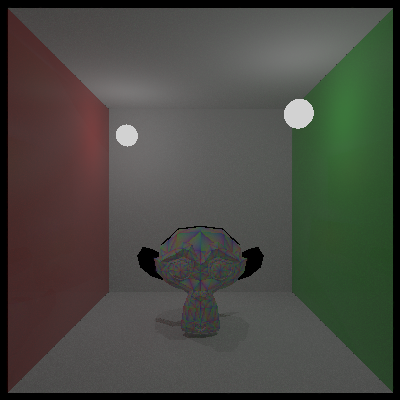
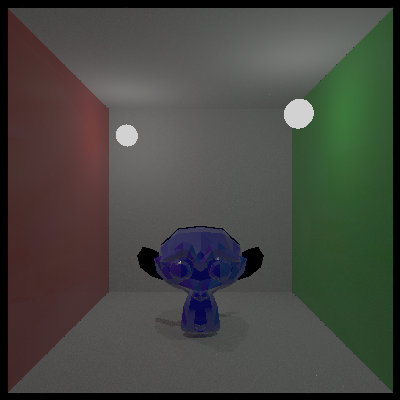
starting to implement transmittance

Changed region(s): [[0.39, 0.57, 0.63, 0.84]]

diff --git a/src/cgg/RayTracer.java b/src/cgg/RayTracer.java
@@ -203,6 +203,7 @@ public class RayTracer implements Sampler
 			__GX = switch (__Recent.material())
 			{
 			case PhysicalMaterial c -> _shadePhysical(__Recent,ray,coord,depth);
+			case TransmittingMaterial c -> _shadeTransmitting(__Recent,ray,coord,depth);
 			case SurfaceMaterial c -> _shadePhong(__Recent);
 			case SurfaceColour c -> _shadeLaemp(__Recent);
 			default -> Config.ERRORCOLOUR;
@@ -360,6 +361,58 @@ public class RayTracer implements Sampler
 		__GI = multiply(__GI,add(multiply(__GIFresnel,__LUT.r()),__LUT.g()));
 		__GI = multiply(add(__GI,__DGI),__Cavity);
 		return mix(out,color(__GI),.5);
+	}
+
+	private Color _shadeTransmitting(Hit hit,Ray ray,Vec2 coord,int depth)
+	{
+		Vec3 p_Normal = hit.normal();
+		double __N0 = 1.;
+		double __N1 = hit.material().getComponent(MaterialComponent.MASS,hit).r();
+
+		// check for exit ray
+		double __CosTheta = dot(p_Normal,ray.direction());
+		if (__CosTheta>0)
+		{
+			// recalculate
+			p_Normal = multiply(p_Normal,-1);
+			__CosTheta = dot(p_Normal,ray.direction());
+			// FIXME is signswap equivalent?
+
+			// swap factors
+			__N0 = __N1;
+			__N1 = 1.;
+		}
+
+		// fresnel approximation
+		double __Schlick = pow((__N0-__N1)/(__N0+__N1),2.);
+		__Schlick = __Schlick+(1-__Schlick)*pow(1+__CosTheta,5.);
+
+		// in case of total reflection
+		double __R = (__N0/__N1);
+		double __DC = 1-pow(__R,2.)*(1-pow(-__CosTheta,2.));
+		if (__DC<0) __Schlick = 1.;
+
+		// calculate refraction
+		Color __Refraction = color(0,0,.5);
+		if (__Schlick<.99)
+		{
+			Vec3 __FacDirection = multiply(ray.direction(),__R);
+			Vec3 __FacDC = multiply(hit.normal(),__R*-__CosTheta-sqrt(__DC));
+			Vec3 __RefDirection = add(__FacDirection,__FacDC);
+			Ray __RefractRay = new Ray(hit.position(),__RefDirection);
+			__Refraction = _processScene(__RefractRay,coord,depth);
+		}
+
+		// calculate reflection
+		Color __Reflection = color(0,0,0);
+		if (__Schlick>.01)
+		{
+			Ray __ReflectRay = new Ray(hit.position(),bounce(ray.direction(),hit.normal()));
+			__Reflection = _processScene(__ReflectRay,coord,depth+1);
+		}
+
+		// combine components
+		return mix(__Refraction,__Reflection,__Schlick);
 	}
 
 	private Vec3 _diffuseComponent(Vec2 coord,int depth,Hit hit,Vec3 fresnel,double metallic)

diff --git a/src/cgg/geom/TriangleMesh.java b/src/cgg/geom/TriangleMesh.java
@@ -38,6 +38,8 @@ public class TriangleMesh implements Geometry
 		}
 		//this.tree = new KDTree(triangles);
 	}
+	// FIXME kdtree should make rendering faster, not slower:
+	//		a debug log has been established in KDTree implementation in case there is time
 
 	public Queue<HitTuple> intersect(Ray charles)
 	{
@@ -59,6 +61,7 @@ public class TriangleMesh implements Geometry
 		if (out.size()>0) out.peek().front().overwriteMaterial(material);
 		return out;
 		*/
+		__Recent.overwriteMaterial(material);
 		return primitive_hit(new HitTuple(__Recent,__Recent));
 	}
 	// TODO improve to actually return all the geometry the charles passes through just like in csg complex

diff --git a/src/cgg/geom/KDTree.java b/src/cgg/geom/KDTree.java
@@ -29,6 +29,7 @@ class KDTree implements Geometry
 		// leaf state
 		if (triangles.size()<4)
 		{
+			System.out.println("-> LEAF: "+triangles.size());
 			this.triangles = triangles;
 			return;
 		}
@@ -59,8 +60,10 @@ class KDTree implements Geometry
 
 		// packaging triangles into seperate tree subprogressions
 		int __Until = (int)(__Sorted.size()*.5);
+		System.out.println("+ NODE: "+triangles.size());
 		this.left = new KDTree(__Sorted.subList(0,__Until));
 		this.right = new KDTree(__Sorted.subList(__Until,__Sorted.size()));
+		System.out.println("- EXIT: "+triangles.size());
 	}
 
 	public Queue<HitTuple> intersect(Ray ray)

diff --git a/src/cgg/scne/BodhisPoolRepair.java b/src/cgg/scne/BodhisPoolRepair.java
@@ -1,0 +1,25 @@
+package cgg.scne;
+
+import static tools.Functions.*;
+import tools.*;
+import cgg.geom.*;
+import cgg.mtrl.*;
+
+
+public class BodhisPoolRepair extends Scene
+{
+	public BodhisPoolRepair()
+	{
+		super(vec3(0,-2.5,5),vec3(0,0,0));
+
+		// flooring
+		Structures.floor(groot,vec3(0,0,0),10,4);
+
+		// geometry
+		groot.register_geometry(new Sphere(vec3(0,-1,0),.5,new TransmittingMaterial(color(0,0,.5),1.5)));
+
+		craeveTheVorbiddenLaemp(vec3(-1.7,-2.5,-3.5),color(.7,.7,.7),.7);
+		craeveTheVorbiddenLaemp(vec3(1.7,-2.5,-1.5),color(.7,.7,.7),.7);
+		groot.update_bounds();
+	}
+}

diff --git a/src/cgg/mtrl/TransmittingMaterial.java b/src/cgg/mtrl/TransmittingMaterial.java
@@ -1,0 +1,28 @@
+package cgg.mtrl;
+
+import tools.*;
+import static tools.Functions.*;
+import cgg.a02.Hit;
+
+
+public class TransmittingMaterial implements Material
+{
+	private Color colour;
+	private double mcoeff;
+
+	public TransmittingMaterial(Color colour,double mcoeff)
+	{
+		this.colour = colour;
+		this.mcoeff = mcoeff;
+	}
+
+	public Color getComponent(MaterialComponent comp,Hit hit)
+	{
+		switch (comp)
+		{
+		case COLOUR: return colour;
+		case MASS: return color(mcoeff,0,0);
+		}
+		return color(0);
+	}
+}

diff --git a/src/cgg/Main.java b/src/cgg/Main.java
@@ -10,7 +10,7 @@ public class Main
 	public static void main(String[] args)
 	{
 		// geometry
-		Scene scene = new AnimalFarm();
+		Scene scene = new BodhisPoolRepair();
 
 		// raytracer
 		RayTracer rt = new RayTracer(scene);
@@ -19,6 +19,6 @@ public class Main
 		// image
 		Image image = new Image();
 		image.sample(new HaltonSampler(rt));
-		image.writePng("a08-image");
+		image.writePng("cgg-competition-ws-24-103717");
 	}
 }

diff --git a/src/cgg/Config.java b/src/cgg/Config.java
@@ -7,8 +7,8 @@ import static tools.Functions.*;
 public class Config
 {
 	// view
-	public static final int WIDTH = 400;
-	public static final int HEIGHT = 400;
+	public static final int WIDTH = 1000;
+	public static final int HEIGHT = 1000;
 	public static final int FOV = 60;
 	public static final double EXPOSURE = 1.;
 	public static final double NEAR = .0001;

diff --git a/src/cgg/mtrl/PhysicalMaterial.java b/src/cgg/mtrl/PhysicalMaterial.java
@@ -41,6 +41,6 @@ public class PhysicalMaterial implements Material
 		case MATERIAL:
 			return (material!=null) ? material.getColor(multiply(hit.uv(),vec2(texel,texel))) : material_fallback;
 		}
-		return color(0,0,0);
+		return color(0);
 	}
 }

diff --git a/src/cgg/mtrl/MaterialComponent.java b/src/cgg/mtrl/MaterialComponent.java
@@ -4,5 +4,6 @@ package cgg.mtrl;
 public enum MaterialComponent
 {
 	COLOUR,
-	MATERIAL
+	MATERIAL,
+	MASS
 }
